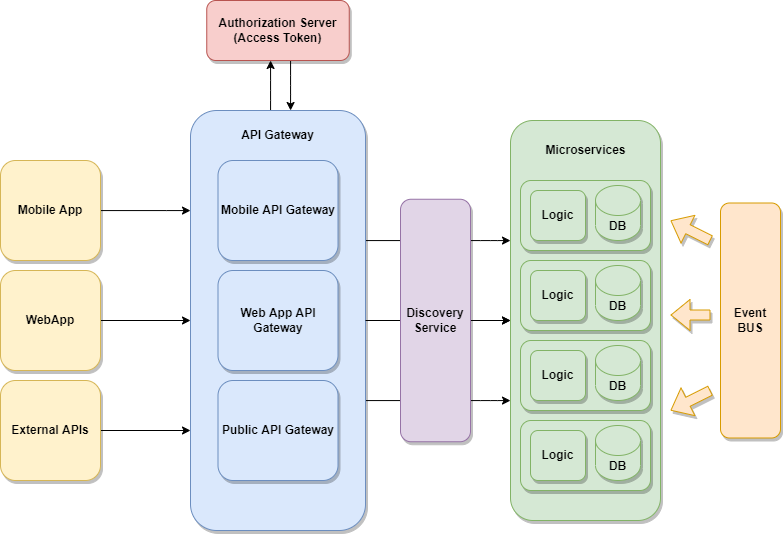
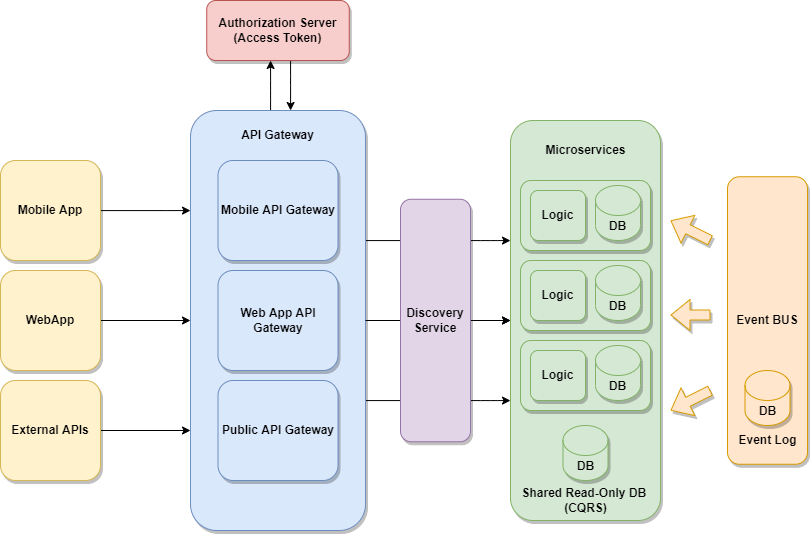
Work done in sections 1.1, 1.2, 2.1, 2.6, 2.7, 4, 5
Purpose and Scope added in section 1.1 and 1.2

High-level microservice diagram updated in section 2.1

Patterns updated (monolithic front-end added, UI composition removed) in section 2.6

Other Design Decisions updated (External APIs and UI composition added) in section 2.7

Reference to System Software Attributes added in section 4

Integration plan updated with images in section 5.2

diff --git a/DD/Files/5.IIT_plan/integration_plan.tex b/DD/Files/5.IIT_plan/integration_plan.tex
@@ -1,18 +1,53 @@
 % ############ 5.2) INTEGRATION PLAN ########################
 
+
 In this section, we describe how the components are integrated in order to build the S2B. The integration is divided into different phases.
 \newline
 
 First of all, the first components to build are the microservices, since they are the core of the system. It is possible to prioritize the integration of the most critical services at first, and later on add the other services.
-\newline
 
-After this, the API gateway and the Event BUS are the next things to add. The Event BUS will implement all the design patterns related to database communication between microservices, in order to guarantee a correct transmission of information. The API gateway, on the other end, will assure the correct invocation of the methods and functionalities of the microservices.
-\newline
+\begin{figure}[H]
+	\centering
+    \includegraphics[scale=0.4]{Images/Impl, Integr & Test/Integration Plan - Step 1.png}
+	\caption{\label{fig:integration_plan_step_1}Integration - Step 1}
+\end{figure}
+
+After this, the Event BUS is the next thing to add, together with the Shared Read-Only DB. The Event BUS will implement all the design patterns related to database communication between microservices, in order to guarantee a correct transmission of information. The Shared Read-Only DB, crucial in the CQRS pattern, will be kept up-to-date by every single microservice.
+
+\begin{figure}[H]
+	\centering
+    \includegraphics[scale=0.4]{Images/Impl, Integr & Test/Integration Plan - Step 2.png}
+	\caption{\label{fig:integration_plan_step_2}Integration - Step 2}
+\end{figure}
+
+Now comes the API gateway, that will assure the correct invocation of the methods and functionalities of the microservices, together with the Discovery Service, used for routing the requests to the correct microservice instance and for load balancing.
+
+\begin{figure}[H]
+	\centering
+    \includegraphics[scale=0.4]{Images/Impl, Integr & Test/Integration Plan - Step 3.png}
+	\caption{\label{fig:integration_plan_step_3}Integration - Step 3}
+\end{figure}
 
 At this point, it is possible to integrate the authorization server, connected to the API gateway, that will handle all the security aspects, especially those related to authentication and authorization. 
-\newline
+
+\begin{figure}[H]
+	\centering
+    \includegraphics[scale=0.4]{Images/Impl, Integr & Test/Integration Plan - Step 4.png}
+	\caption{\label{fig:integration_plan_step_4}Integration - Step 4}
+\end{figure}
 
 Then, it is time to integrate the external APIs and Databases. Since we are assuming them as given and already implemented, we just need to correctly connect them with the rest of the system.
-\newline
+
+\begin{figure}[H]
+	\centering
+    \includegraphics[scale=0.4]{Images/Impl, Integr & Test/Integration Plan - Step 5.png}
+	\caption{\label{fig:integration_plan_step_5}Integration - Step 5}
+\end{figure}
 
 Finally, it is possible to integrate the mobile application module and the web application module, together with the web browser, that will handle the user-side aspects of the S2B.
+
+\begin{figure}[H]
+	\centering
+    \includegraphics[scale=0.4]{Images/Impl, Integr & Test/Integration Plan - Step 6.png}
+	\caption{\label{fig:integration_plan_step_6}Integration - Step 6}
+\end{figure}

diff --git a/DD/Files/4.req_traceability/req_traceability.tex b/DD/Files/4.req_traceability/req_traceability.tex
@@ -1,1 +1,16 @@
 (possible) requirements summary, requirements to component mapping
+
+In addition, also the software system attributes (described in the RASD) are guaranteed by the architectural design choices made and explained in this document. 
+
+In particular:
+\begin{itemize}
+    \item \textbf{Usability}: it is achieved through a simple and intuitive interface, as shown in section 3. The possible choices are clearly presented to the user, both in the mobile app and in the web application. With this simple type of interface, the application could be used by all types of users, for example also by elders and by people that are not very experienced with electronic devices.
+    
+    \item \textbf{Reliability and Availability}: they are accomplished through replication and the subdivision in microservices. Thanks to modularity and low coupling, possible problems are limited to a single microservice, without affecting others. Moreover, the replication of nodes allows the system to be even more fault tolerant, especially in critical elements such as the API gateway, the Authorization server, the Discovery Service and the shared read-only database. 
+
+    \item \textbf{Security}: it is guaranteed through the Authorization Server and the Access Token pattern. Since the API gateway represents a single point of entrance, the identity of a user can be checked before forwarding his request to the microservices. Moreover, since the access token is passed around the system together with the request, a Role Based Access Protocol (RBAC) could be adopted because the information about the role of a user can be put inside the token. In addition, communication running on HTTP is encrypted thanks to protocols such as HTTPS and SSL.
+
+    \item \textbf{Portability}: it is achieved through the implementation of a web application and the existence of an API gateway. The lightweight web application allows the system to be accessed from any device provided with an internet browser. The API gateway, instead, allows the development of a mobile app for different operating systems (mainly Android and iOS) thanks to the fact that it offers a dedicated interface for each client type, guaranteeing compatibility and providing additional elasticity to the developers.
+
+    \item \textbf{Maintainability and Scalability}: they are accomplished through the Microservice architecture itself. A microservice-based approach grants high modularity and low coupling, with independent components that are easier to maintain, test and fix. Microservices also grant high scalability because new modules can constantly be added to the system for future upgrades, introducing new functionalities, without affecting the behaviour of the other components of the application.
+\end{itemize}

diff --git a/DD/Files/introduction.tex b/DD/Files/introduction.tex
@@ -6,13 +6,27 @@ The final aim of Telengana's government is collecting and analyzing agriculture 
 
 \subsection{Purpose}
 \label{sec:purpose}
-Something to declare the purpose
+This document provides a detailed description of the software architecture chosen for the DREAM application described in the Requirement Analysis and Specification Document. 
 
+This includes architectural components and features, information about the deployment and the interfaces and a description of the adopted patterns. 
+
+Moreover, a runtime view of the core functionalities of the S2B is provided, together with some interaction diagrams between the different components. 
+
+Also some examples of user interface design are provided, in order to give a general idea of how the application will look like.
+
+Finally, there is information about the implementation, integration and testing processes.
 
 
 \subsection{Scope}
 \label{sec:scope}
-Something to talk about the scope
+The system defines three main actors that will interact with the application: policy makers, farmers and agronomists.
+
+Farmers can access the platform to see data relevant for them, such as weather forecasts and personalized suggestions, to insert data about their production and any problem they face, to request for help and suggestions by agronomists and other farmers and to create discussions with other farmers.
+
+Agronomists can insert the area they are responsible of, they can receive and answer to request by farmers, they can see relevant data about their areas, such as weather forecasts, best/under-performing farmers and problems encountered by farmers, and they can also manage daily plans in order to visit periodically the farmers.
+
+Finally, policy makers can visualize information and statistics about the overall process, they can see if the steering initiatives are producing significant results, they can ask well-performing farmers to write good practices and can assign incentives to them.
+
 
 
 \subsection{Definitions, Acronyms, Abbreviations}

diff --git a/DD/Files/2.Architectural design/other_design_decisions.tex b/DD/Files/2.Architectural design/other_design_decisions.tex
@@ -10,3 +10,17 @@ The web application will be the thin client. This means that it will have only p
 
 The mobile application, instead, will be the thick client. In fact, it is reasonable to save useful information on the local memory of the device (for example chats) in order to avoid continuous requests to the platform (less computational load) and to guarantee also some functionalities when the Internet connection is not available.
 
+\subsubsection{Client-side UI composition (for the future)}
+As mentioned in the Monolithic front-end paragraph (section 2.6.12), we suggest a future transition to micro front-ends, which can be achieved by the Client-side UI composition pattern. This pattern will be used to implement a UI screen or page that displays data from multiple services. 
+
+Different teams will develop a client-side UI component (i.e. AngularJS directive) that implements the region of the page/screen for their service. A UI team will be responsible for implementing the page skeletons that build pages/screens by composing multiple, service-specific UI components.
+
+\subsubsection{External APIs and Datasets}
+The system will interact with external interfaces and services, in particular with:
+\begin{itemize}
+    \item IdP providers (such as Google, Facebook, etc.) to simplify the process of user registration
+    \item open datasets that collect information from the territory about weather forecasts, soil moisture, water irrigation, humidity, wildfires, etc. through sensors and satellite technologies
+    \item evaluating algorithms to understand the performance of farmers (positive or negative deviance)
+    \item incentives companies to manage the definition and collection of the vouchers that are assigned to farmers
+    \item weather analysis algorithms to categorize the different weather types and characteristics of the areas, in order to support more specific personalized suggestions and statistics
+\end{itemize}

diff --git a/DD/Files/2.Architectural design/styles_and_patterns.tex b/DD/Files/2.Architectural design/styles_and_patterns.tex
@@ -83,5 +83,5 @@ With this pattern, when making a request to a service, the caller makes a reques
 
 This pattern allows to keep the client code simpler, since it does not have to deal with discovery. In addition, the possibility of using virtualization inside the system’s modules increases the availability and the scalability of the software since it is possible to dynamically generate new service instances when needed.
 
-\subsubsection{Client-side UI composition}
-The Client-side UI composition pattern is used to implement a UI screen or page that displays data from multiple services. Different teams develop a client-side UI component (i.e. AngularJS directive) that implements the region of the page/screen for their service. A UI team is responsible for implementing the page skeletons that build pages/screens by composing multiple, service-specific UI components. 
+\subsubsection{Monolithic front-end}
+For the first implementation and deployment of the system, we decided to adopt a monolithic front-end that handles the calls to the system and puts together all the information gathered by querying the platform, thanks to its simplicity and easy deployment. A future implementation of micro front-ends is suggested in order to guarantee scalability also on the client side, increasing however the complexity of the software, but assuring easier updates for long-term operations. For this particular transition, the user experience could be retrieved through some sort of feedback mechanism in order to develop the most suitable application possible.

diff --git a/DD/Files/2.Architectural design/overview.tex b/DD/Files/2.Architectural design/overview.tex
@@ -4,7 +4,7 @@ DREAM will be implemented using a Microservice Architecture and all the architec
 
 \begin{figure}[H]
 	\centering
-    \includegraphics[scale=0.6]{Images/Architecture/Microservice Architecture Diagram.png}
+    \includegraphics[scale=0.55]{Images/Architecture/Microservice Architecture Diagram.png}
 	\caption{\label{fig:microservice_architecture}High-level Microservice Architecture}
 \end{figure}
 

diff --git a/DD/Files/5.IIT_plan/main_IIT.tex b/DD/Files/5.IIT_plan/main_IIT.tex
@@ -5,12 +5,14 @@
 \input{Files/5.IIT_plan/implementation_plan}
 
 % ############ 5.2) INTEGRATION PLAN ########################
+\newpage
 \subsection{Integration plan}
 \label{sec:integration_plan}
 
 \input{Files/5.IIT_plan/integration_plan}
 
 % ############ 5.3) TEST PLAN ########################
+\newpage
 \subsection{Test plan}
 \label{sec:test_plan}
 

diff --git a/DD/Files/5.IIT_plan/implementation_plan.tex b/DD/Files/5.IIT_plan/implementation_plan.tex
@@ -9,6 +9,7 @@ The S2B will be divided as follows:
     \item API gateway (with Discovery Service)
     \item Authorization Server
     \item Microservices
+    \item Event BUS
     \item External services
 \end{itemize}
  
